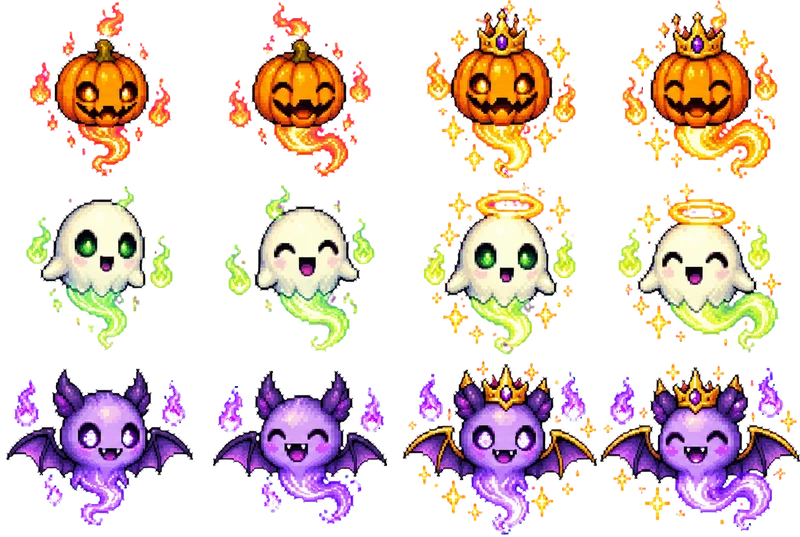
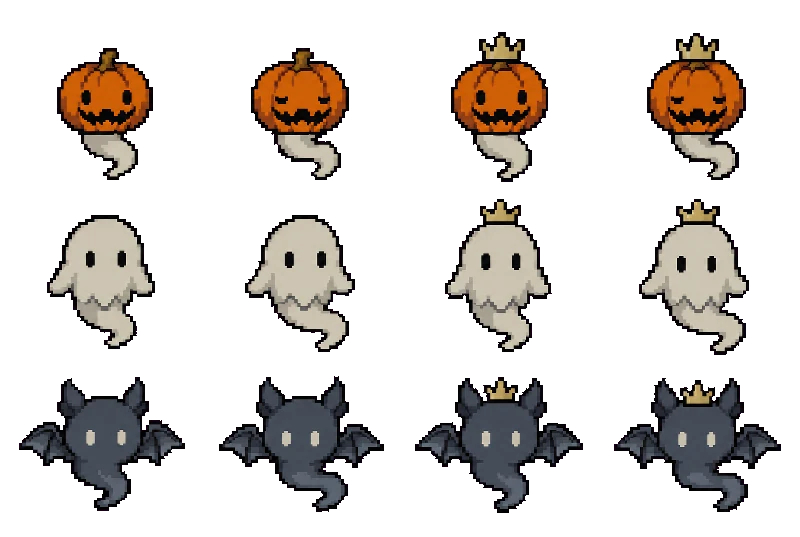
halloween: wild-2-swarm — calmer art: muted palette, plain frames, less cartoonish host

diff --git a/events/halloween/draw/visuals/wild-2-swarm/index.js b/events/halloween/draw/visuals/wild-2-swarm/index.js
@@ -239,9 +239,9 @@ export function mount(root, ctx) {
     b.save(); b.translate(ox, oy); b.scale(sc, sc);
     const r = (cx, cy, rad, c0, c1) => { const gr = b.createRadialGradient(cx, cy, 0, cx, cy, rad); gr.addColorStop(0, c0); gr.addColorStop(1, c1); b.fillStyle = gr; b.fillRect(cx - rad, cy - rad, rad * 2, rad * 2); };
     if (A.sky) b.drawImage(A.sky, 0, 0, W0, H0);
-    r(CX, CY, 900, "rgba(138,63,252,.17)", "rgba(138,63,252,0)");
-    r(300, 1100, 700, "rgba(255,102,0,.16)", "rgba(255,102,0,0)");
-    r(1700, 1100, 700, "rgba(124,255,79,.07)", "rgba(124,255,79,0)");
+    r(CX, CY, 900, "rgba(138,63,252,.04)", "rgba(138,63,252,0)");
+    r(300, 1100, 700, "rgba(255,102,0,.05)", "rgba(255,102,0,0)");
+    r(1700, 1100, 700, "rgba(124,255,79,.015)", "rgba(124,255,79,0)");
     if (!A.sky) { // запасний варіант без ассетів: пікселі-зірки
       const rnd = mulberry(7);
       for (let i = 0; i < 160; i++) { b.fillStyle = `rgba(244,241,234,${0.12 + rnd() * 0.35})`; const s = rnd() < 0.15 ? 4 : 2; b.fillRect(Math.floor(rnd() * W0 / 4) * 4, Math.floor(rnd() * 800 / 4) * 4, s, s); }
@@ -512,17 +512,17 @@ export function mount(root, ctx) {
       g.fillRect(Math.round(p.x - p.ds / 2), Math.round(p.y - p.ds / 2), p.ds, p.ds);
     }
   }
-  let dustPal = ["#8a3ffc", "#ff6600", "#7cff4f", "#b9a9d8"];
+  let dustPal = ["#6b7280", "#ff6600", "#8a93a6", "#c9c4b8"];
 
   // ---------- жива сцена: місяць, хмари, зірки, туман, світлячки, кажани ----------
   const clouds = [[1, 60, 96, 11, 0.9], [3, 780, 190, 17, 0.8], [2, 1300, 70, 8, 0.85], [4, 380, 330, 13, 0.7], [1, 1600, 420, 20, 0.6], [3, 120, 520, 9, 0.5]]
     .map(([i, x, y, s, a], n) => ({ i, x, y, s, a, k: 0.55 + (n % 3) * 0.12 }));
-  const tw = Array.from({ length: 26 }, (_, i) => { const r = mulberry(900 + i); return { x: Math.floor(r() * 1900 / 4) * 4, y: Math.floor(r() * 640 / 4) * 4, ph: r() * 6.28, sp: 0.8 + r() * 1.8, c: ["#fff3d0", "#ffb000", "#c9a8ff"][i % 3] }; });
-  const flies = Array.from({ length: 26 }, (_, i) => { const r = mulberry(5000 + i); return { x: r() * W0, y: 700 + r() * 330, ph: r() * 6.28, sp: 0.25 + r() * 0.5, c: i % 3 === 0 ? "#ff8a2b" : "#7cff4f" }; });
+  const tw = Array.from({ length: 26 }, (_, i) => { const r = mulberry(900 + i); return { x: Math.floor(r() * 1900 / 4) * 4, y: Math.floor(r() * 640 / 4) * 4, ph: r() * 6.28, sp: 0.8 + r() * 1.8, c: ["#c9c4b8", "#8a93a6", "#c9c4b8"][i % 3] }; });
+  const flies = Array.from({ length: 26 }, (_, i) => { const r = mulberry(5000 + i); return { x: r() * W0, y: 700 + r() * 330, ph: r() * 6.28, sp: 0.25 + r() * 0.5, c: i % 3 === 0 ? "#ff8a2b" : (i % 7 === 1 ? "#7cff4f" : "#8a93a6") }; });
   const fogs = Array.from({ length: 6 }, (_, i) => ({ x: i * 380, y: 930 + (i % 3) * 36, w: 900 + (i % 2) * 300, s: 6 + i * 2.2, a: 0.07 + (i % 3) * 0.02 }));
   const fogSprite = (() => {
     const c = document.createElement("canvas"); c.width = 256; c.height = 64; const x = c.getContext("2d");
-    const gr = x.createRadialGradient(128, 32, 0, 128, 32, 128); gr.addColorStop(0, "rgba(170,140,255,.9)"); gr.addColorStop(0.5, "rgba(140,100,230,.35)"); gr.addColorStop(1, "rgba(140,100,230,0)");
+    const gr = x.createRadialGradient(128, 32, 0, 128, 32, 128); gr.addColorStop(0, "rgba(120,130,150,.5)"); gr.addColorStop(0.5, "rgba(100,110,130,.2)"); gr.addColorStop(1, "rgba(100,110,130,0)");
     x.save(); x.scale(1, 0.25); x.fillStyle = gr; x.fillRect(0, 0, 256, 256 * 4); x.restore(); return c;
   })();
   const bats = Array.from({ length: 4 }, (_, i) => ({ x: i * 520 - 100, y: 220 + (i * 97) % 260, v: (i % 2 ? -1 : 1) * (70 + i * 24), ph: i * 1.7, s: 0.8 + (i % 3) * 0.25 }));
@@ -533,7 +533,7 @@ export function mount(root, ctx) {
     if (A.moon) {
       const mx = 1640, my = 330, ms = 300;
       g.globalCompositeOperation = "lighter";
-      g.globalAlpha = 0.42 + 0.1 * Math.sin(T * 0.7); g.drawImage(glowFor("#ff9a30"), mx - 330, my - 330, 660, 660);
+      g.globalAlpha = 0.14 + 0.04 * Math.sin(T * 0.7); g.drawImage(glowFor("#c9a070"), mx - 330, my - 330, 660, 660);
       g.globalCompositeOperation = "source-over"; g.globalAlpha = 1;
       g.drawImage(A.moon, mx - ms / 2, my - ms / 2, ms, ms);
     }
@@ -683,7 +683,7 @@ export function mount(root, ctx) {
     const p = fin.W;
     if (p.st === HIDE) return;
     g.globalCompositeOperation = "lighter";
-    const s = p.kb * 9 * p.sm * 3.2; g.globalAlpha = 0.85; g.drawImage(glowFor("#ffd84a"), p.x - s / 2, p.y - s / 2, s, s); g.globalAlpha = 1;
+    const s = p.kb * 9 * p.sm * 3.2; g.globalAlpha = 0.85; g.drawImage(glowFor("#ff9a3d"), p.x - s / 2, p.y - s / 2, s, s); g.globalAlpha = 1;
     g.globalCompositeOperation = "source-over";
     drawPt(p);
   }
@@ -826,12 +826,12 @@ export function mount(root, ctx) {
     const gl = glowFor("#ff6600"); g.globalAlpha = a * 0.5; g.drawImage(gl, CX - 900, fin.nameY - 280, 1800, 560); g.globalAlpha = a;
     g.globalCompositeOperation = "source-over";
     font(800, 44); g.fillStyle = "#7cff4f"; if ("letterSpacing" in g) g.letterSpacing = "14px";
-    g.shadowColor = "#7cff4f"; g.shadowBlur = 18;
+    g.shadowColor = "#7cff4f"; g.shadowBlur = 6;
     g.fillText("ПЕРЕМОЖЕЦЬ", CX, 160); g.shadowBlur = 0;
     if ("letterSpacing" in g) g.letterSpacing = "0px";
     font(900, fin.fs); g.lineJoin = "round"; g.lineWidth = Math.max(8, fin.fs * 0.07);
     g.strokeStyle = "#1a0b00"; g.strokeText(fin.name, CX, fin.nameY);
-    const gr = g.createLinearGradient(0, fin.nameY - fin.fs * 0.5, 0, fin.nameY + fin.fs * 0.5); gr.addColorStop(0, "#fff1b8"); gr.addColorStop(0.5, "#ffb000"); gr.addColorStop(1, "#ff6600");
+    const gr = g.createLinearGradient(0, fin.nameY - fin.fs * 0.5, 0, fin.nameY + fin.fs * 0.5); gr.addColorStop(0, "#f4efe4"); gr.addColorStop(0.5, "#ff8a1a"); gr.addColorStop(1, "#ff6600");
     g.shadowColor = "#ff6600"; g.shadowBlur = 34; g.fillStyle = gr; g.fillText(fin.name, CX, fin.nameY); g.shadowBlur = 0;
     if (fin.handle) { font(700, 46); g.fillStyle = "#d9d4ca"; g.fillText(fin.handle, CX, fin.nameY + fin.fs * 0.5 + 52); }
     font(600, 32); g.fillStyle = "#9a958c";
@@ -955,7 +955,7 @@ export function mount(root, ctx) {
       return { p, gone: false, st: SEEK };
     });
     for (const p of pool) if (!S3.includes(p) && !p.dead) sched(p, T + 0.05 + rnd() * 0.8, FALL);
-    dustPal = ["#8a3ffc", "#a566ff", "#7cff4f", "#ff6600"]; glowCol = "#8a3ffc";
+    dustPal = ["#6b7280", "#8a3ffc", "#8a93a6", "#ff6600"]; glowCol = "#4a3a6a";
     const rp = ringPoints(K, R, a0, Math.floor(dusts.length * 0.9), rnd);
     shuffle(dusts.slice(), rnd).forEach((p, i) => { if (i < rp.length) sched(p, T + rnd() * 0.6, SEEK, rp[i][0], rp[i][1], true); else sched(p, T + rnd() * 0.6, ORB); });
     setCount(c2, K, 1.4, "ФІНАЛІСТИ");
@@ -994,13 +994,13 @@ export function mount(root, ctx) {
     say(`Переможець: ${clip(winner.name, 22)}! Вітаю!`);
     snd("win");
     if (mon) mon.ta = 0;
-    for (let i = 0; i < 150; i++) conf.push({ x: CX + (rnd() - 0.5) * 300, y: CY - 100, vx: (rnd() - 0.5) * 1700, vy: -700 - rnd() * 900, c: ["#ff6600", "#7cff4f", "#8a3ffc", "#ffd84a", "#f4f1ea"][i % 5], life: 3 });
+    for (let i = 0; i < 150; i++) conf.push({ x: CX + (rnd() - 0.5) * 300, y: CY - 100, vx: (rnd() - 0.5) * 1700, vy: -700 - rnd() * 900, c: ["#ff6600", "#c9c4b8", "#ff6600", "#ffb36b", "#8a93a6"][i % 5], life: 3 });
     W.smt = 250 / (9 * W.kb); sched(W, T, SEEK, CX, lay.portraitY);
     tween(0.6, (u) => { if (fin) fin.hudFade = u; }).catch(() => {});
     await wait(0.6);
     morph(winner, W, av, lay, rnd);
     snd("whoosh");
-    phaseName = "final"; dbg.phase = phaseName; glowCol = "#ffb000";
+    phaseName = "final"; dbg.phase = phaseName; glowCol = "#ff7a1a";
     tween(1.0, (u) => { frameA = u; }).catch(() => {});
     await wait(2.1);
     await tween(0.5, (u) => { fin.a = u; });
@@ -1082,7 +1082,7 @@ export function mount(root, ctx) {
     mon = null; frameA = 0; oopsT = 0;
     fin = null; finalists = []; ring = null; ptrShow = 0; hitT = 0; conf = []; fx = [];
     contract = 1; spin = 1; glowA = 0; hud.show = 0; flash = 0;
-    dustPal = ["#8a3ffc", "#ff6600", "#7cff4f", "#b9a9d8"]; glowCol = "#ff6600";
+    dustPal = ["#6b7280", "#ff6600", "#8a93a6", "#c9c4b8"]; glowCol = "#ff6600";
     heap.fill(0);
     // winners of finished rounds leave the swarm until the host tells us the new list
     const keep = parts.filter((p) => !extraWon.has(p.part.id));
